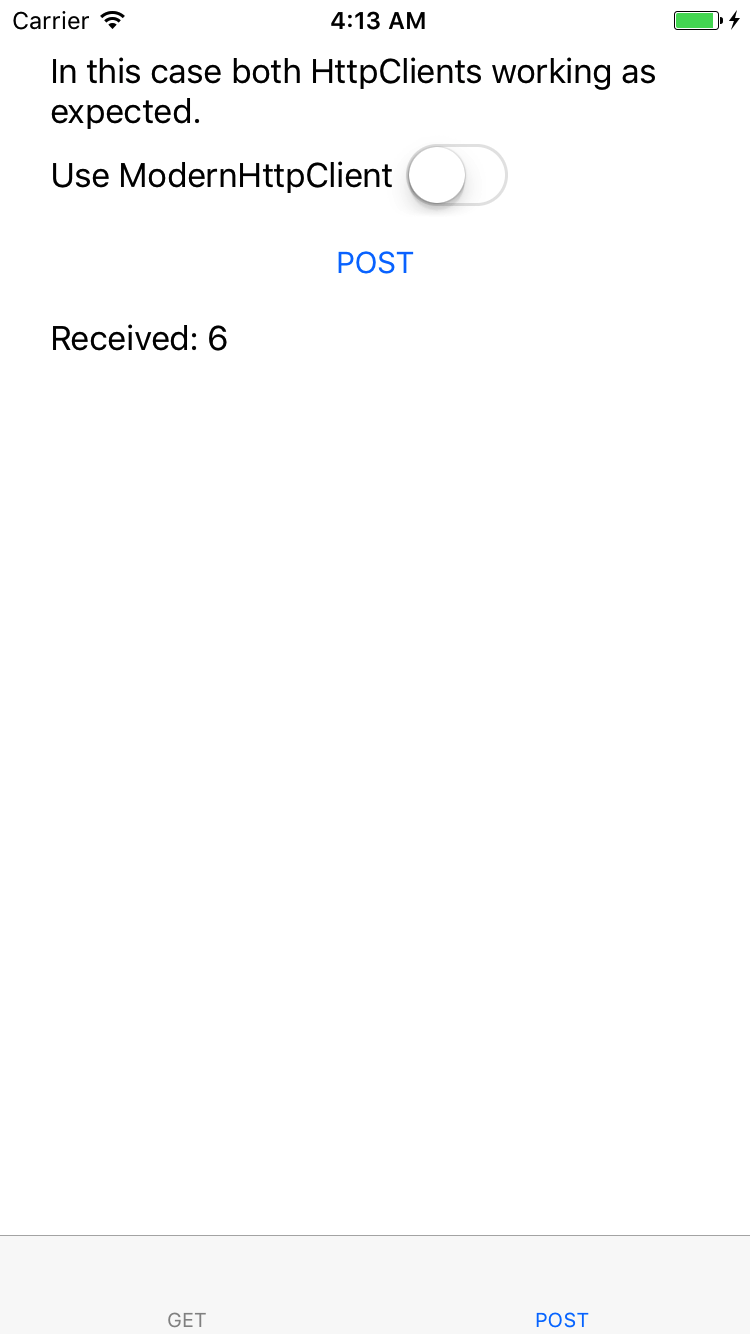
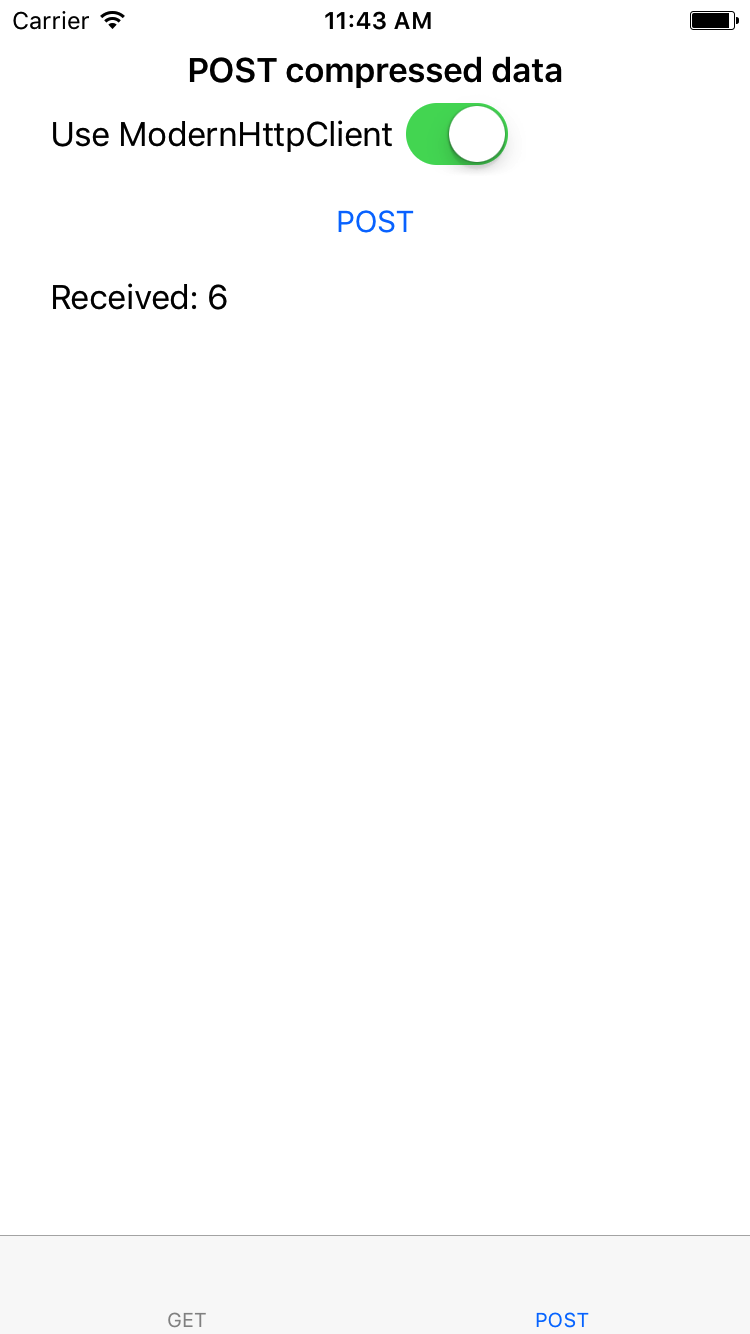
Default HttpClient decompression flag added.

Changed region(s): [[0.0613, 0.0, 0.8893, 0.2151], [0.0613, 0.2151, 0.3067, 0.2766], [0.8893, 0.0, 0.9813, 0.0307]]

diff --git a/HttpGzipPlayground/Views/HttpGzipPlaygroundPostPage.xaml b/HttpGzipPlayground/Views/HttpGzipPlaygroundPostPage.xaml
@@ -6,7 +6,10 @@
 	<StackLayout
 		Padding="25"
 		Orientation="Vertical">
-		<Label Text="In this case both HttpClients working as expected." />
+		<Label
+			FontAttributes="Bold"
+			HorizontalTextAlignment="Center"
+			Text="POST compressed data" />
 		<StackLayout
 				Orientation="Horizontal">
 				<Label

diff --git a/HttpGzipPlayground/Views/HttpGzipPlaygroundGetPage.xaml b/HttpGzipPlayground/Views/HttpGzipPlaygroundGetPage.xaml
@@ -8,6 +8,10 @@
 		Padding="25">
 		<StackLayout
 			Orientation="Vertical">
+			<Label
+				FontAttributes="Bold"
+				HorizontalTextAlignment="Center"
+				Text="Get compressed data" />
 			<StackLayout
 				Orientation="Horizontal">
 				<Label

diff --git a/HttpGzipPlayground/ViewModels/BaseViewModel.cs b/HttpGzipPlayground/ViewModels/BaseViewModel.cs
@@ -42,7 +42,13 @@ namespace HttpGzipPlayground
 
 		public BaseViewModel()
 		{
-			httpClient = new HttpClient();
+			var httpHandler = new HttpClientHandler
+			{
+				AutomaticDecompression = System.Net.DecompressionMethods.GZip | System.Net.DecompressionMethods.Deflate
+			};
+
+			httpClient = new HttpClient(httpHandler);
+
 			InitHttpClient(httpClient);
 
 			modernHttpClient = new HttpClient(new NativeMessageHandler());

diff --git a/README.md b/README.md
@@ -1,8 +1,6 @@
 # Xamarin-Forms-HttpGzipPlayground
-.NET Core MVC backend with GZip compression / decompression support and Xamarin.Forms iOS front-end which consume and send the data using GZip with both HttpClient and ModernHttpClient to demonstrate the difference.
+.NET Core MVC backend with GZip compression / decompression support and Xamarin.Forms iOS frontend which consumes and sends compressed data (using GZip) with both HttpClient and ModernHttpClient.
 
-## Screenshots:
-<img src="https://github.com/yuv4ik/Xamarin-Forms-HttpGzipPlayground/blob/master/screenshots/Get_With_HttpClient.png" width="300">    <img src="https://github.com/yuv4ik/Xamarin-Forms-HttpGzipPlayground/blob/master/screenshots/Get_With_ModernHttpClient.png" width="300">
+## Result:
 
-
-<img src="https://github.com/yuv4ik/Xamarin-Forms-HttpGzipPlayground/blob/master/screenshots/Post.png" width="300">
+<img src="https://github.com/yuv4ik/Xamarin-Forms-HttpGzipPlayground/blob/master/screenshots/GET.png" width="300">    <img src="https://github.com/yuv4ik/Xamarin-Forms-HttpGzipPlayground/blob/master/screenshots/POST.png" width="300">
